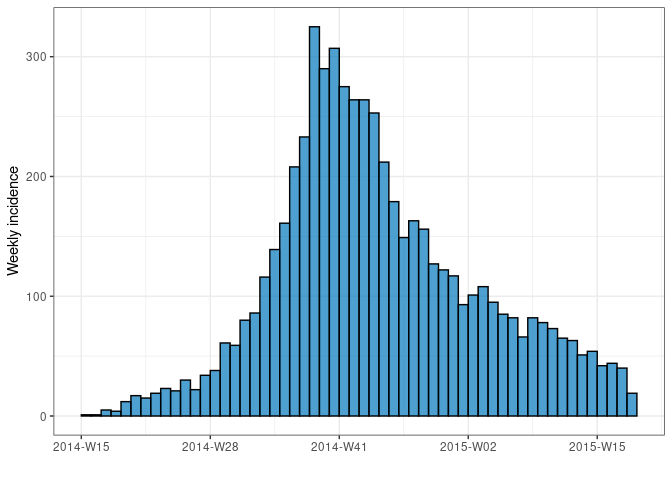
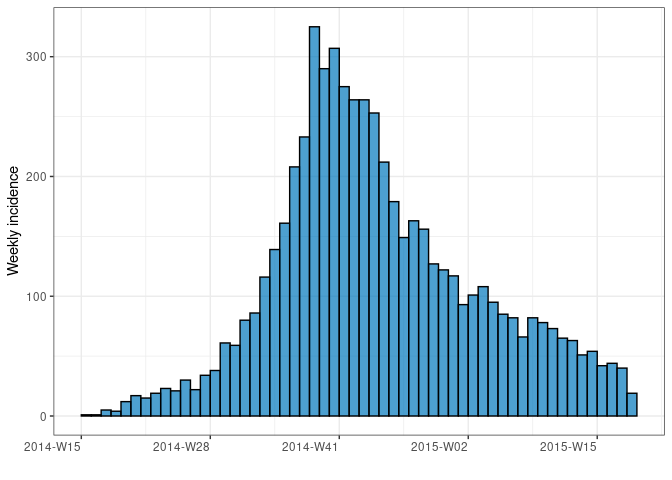
improve image resolution

diff --git a/README.md b/README.md
@@ -177,7 +177,7 @@ summary(i_7)
 plot(i_7, color = "black")
 ```
 
-<img src="man/figures/README-incid7-1.png" width="100%" />
+<img src="man/figures/README-incid7-1.png" style="display: block; margin: auto;" />
 
 `incidence()` can also compute incidence by specified groups using the
 `groups` argument. For instance, we can compute the weekly incidence by
@@ -221,7 +221,7 @@ summary(i_7_sex)
 plot(i_7_sex, fill = "gender", color = "black")
 ```
 
-<img src="man/figures/README-genderstack-1.png" width="100%" />
+<img src="man/figures/README-genderstack-1.png" style="display: block; margin: auto;" />
 
 we can facet our plot (grouping detected automatically):
 
@@ -229,7 +229,7 @@ we can facet our plot (grouping detected automatically):
 facet_plot(i_7_sex, n_breaks = 4)
 ```
 
-<img src="man/figures/README-genderfacet-1.png" width="100%" />
+<img src="man/figures/README-genderfacet-1.png" style="display: block; margin: auto;" />
 
 and we can also group by multiple variables specifying different facets
 and fills:
@@ -285,4 +285,4 @@ i_7_sh %>% summary()
 i_7_sh %>% facet_plot(facets = gender, fill = hospital)
 ```
 
-<img src="man/figures/README-genderhospital-1.png" width="100%" />
+<img src="man/figures/README-genderhospital-1.png" style="display: block; margin: auto;" />
